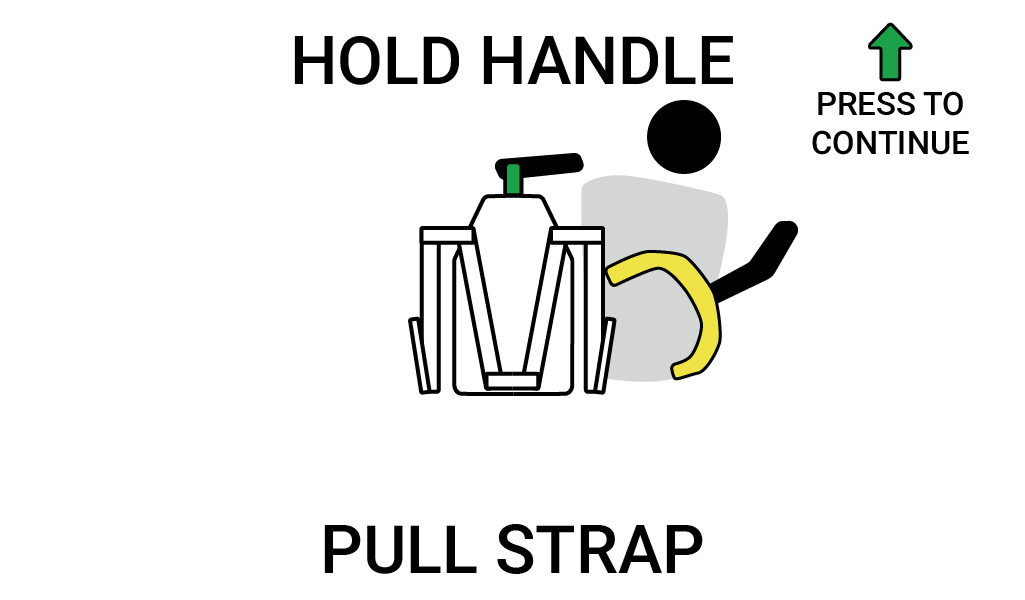
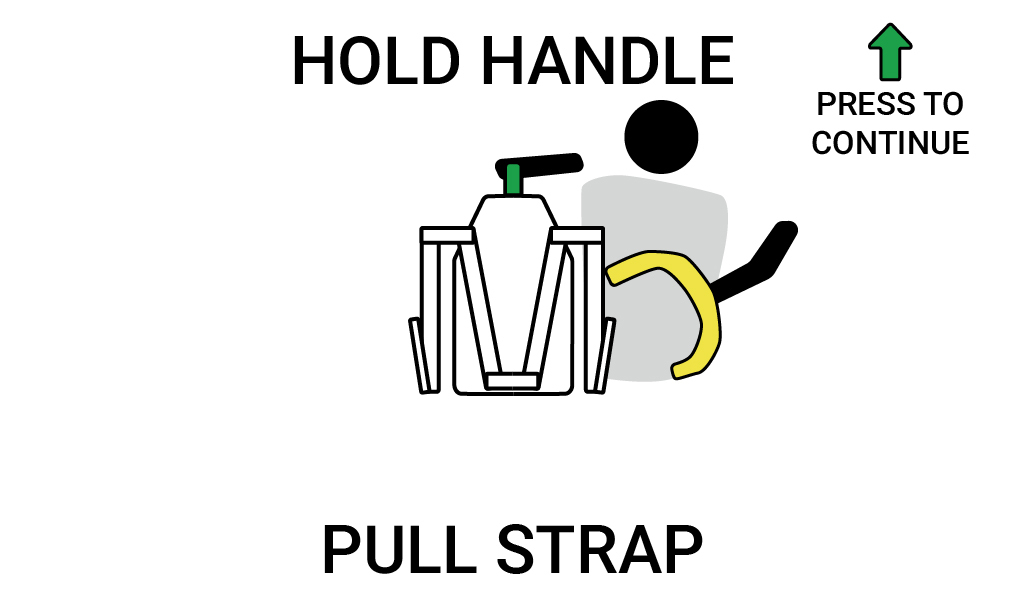
images pt 1000

Changed region(s): [[0.5932, 0.15, 0.718, 0.3]]

diff --git a/Raspberry Pi code/demo/HMI.py b/Raspberry Pi code/demo/HMI.py
@@ -85,6 +85,12 @@ _audio_length: float = 0.0    # length in seconds of the currently playing promp
 # Button lockout state
 _last_press_time: float = float("-inf")   # time.monotonic() of the last accepted button press
 
+# CPR timer overlay state
+_background: pygame.Surface | None = None   # scaled copy of the current image, used to erase old timer text
+_timer_font: pygame.font.Font
+_timer_rect: pygame.Rect | None = None      # screen area covered by the last drawn timer
+TIMER_COLOR = (0, 0, 0)                     # black, to match the text in the images
+
 def init_Pi() -> ErrorCode:
     """Initialize pigpio daemon and return the pi instance.
 
@@ -136,7 +142,7 @@ def init_HMI(pi_instance: pigpio.pi) -> ErrorCode:
     Returns:
         ErrorCode: Normal operation if successful, ERROR_INIT_FAILURE if failed
     """
-    global _screen, _pi, _audio_channel
+    global _screen, _pi, _audio_channel, _timer_font
     logging.debug("Initializing HMI...")
     
     # Initialize the global variable for the pigpio instance
@@ -161,6 +167,8 @@ def init_HMI(pi_instance: pigpio.pi) -> ErrorCode:
             pygame.FULLSCREEN
         )
         pygame.display.set_caption("CPR Machine")
+        # Timer text scales with the screen, roughly the size of the image text
+        _timer_font = pygame.font.Font(None, info.current_h // 8)
     except Exception as e:
         logging.error(f"Display initialization failed: {e}")
         return ErrorCode.ERROR_INIT_FAILURE
@@ -222,15 +230,57 @@ def set_image(image: Image) -> ErrorCode:
     Returns:
         ErrorCode: NORMAL_OPERATION if successful, ERROR_UNKNOWN_IMAGE if failed
     """
-    global _screen
+    global _screen, _background, _timer_rect
     try:
         surf = pygame.image.load(image.value)
         surf = pygame.transform.scale(surf, _screen.get_size())
         _screen.blit(surf, (0, 0))
         pygame.display.flip()
+        # Keep the image so draw_timer can erase its old text; the new image already covers it
+        _background = surf
+        _timer_rect = None
     except Exception as e:
         logging.error(f"Failed to set image {image.name}: {e}")
         return ErrorCode.ERROR_UNKNOWN_IMAGE
+    return ErrorCode.NORMAL_OPERATION
+
+
+def draw_timer(elapsed_sec: float) -> ErrorCode:
+    """Draw elapsed CPR time in the bottom right corner over the current image.
+    Only that corner of the screen is updated, so this is cheap enough to call every tick,
+    but callers should only redraw when the displayed second changes.
+
+    Args:
+        elapsed_sec (float): Total CPR time to display, in seconds
+
+    Returns:
+        ErrorCode: NORMAL_OPERATION if successful, ERROR_PYGAME_FAILURE if failed
+    """
+    global _screen, _background, _timer_rect, _timer_font
+
+    total = int(elapsed_sec)
+    hours, rem = divmod(total, 3600)
+    minutes, seconds = divmod(rem, 60)
+    text = f"{hours}:{minutes:02}:{seconds:02}" if hours else f"{minutes:02}:{seconds:02}"
+
+    try:
+        text_surf = _timer_font.render(text, True, TIMER_COLOR)
+        # Inset from the corner by a fraction of the screen height
+        margin = _screen.get_height() // 30
+        new_rect = text_surf.get_rect(bottomright=(_screen.get_width() - margin, _screen.get_height() - margin))
+
+        # Erase the previous text by restoring that patch of the image underneath it
+        dirty = new_rect
+        if _timer_rect is not None and _background is not None:
+            _screen.blit(_background, _timer_rect, _timer_rect)
+            dirty = new_rect.union(_timer_rect)
+
+        _screen.blit(text_surf, new_rect)
+        pygame.display.update(dirty)
+        _timer_rect = new_rect
+    except Exception as e:
+        logging.error(f"Failed to draw CPR timer: {e}")
+        return ErrorCode.ERROR_PYGAME_FAILURE
     return ErrorCode.NORMAL_OPERATION
 
 

diff --git a/Raspberry Pi code/demo/main.py b/Raspberry Pi code/demo/main.py
@@ -99,6 +99,10 @@ def main():
     prev_state = None
     error = ErrorCode.NORMAL_OPERATION
 
+    # Total time spent in COMPRESSION across all runs. Pausing freezes it and
+    # resuming carries on from the same total, so it reads total CPR time.
+    cpr_elapsed_sec = 0.0
+
     while error not in FATAL_ERRORS:
         # Record the start time of each loop iteration to maintain a consistent tick rate
         loop_start = time.monotonic()
@@ -237,11 +241,25 @@ def main():
                     if error != ErrorCode.NORMAL_OPERATION: continue
                     error = HMI.set_image_audio(HMI.Image.COMPRESSION, HMI.AudioPrompt.COMPRESSION)
                     if error != ErrorCode.NORMAL_OPERATION: continue
+                    # Start of this run of compressions; the timer is drawn on the first loop tick
+                    compression_start = time.monotonic()
+                    shown_sec = None
 
                 # Loop
+                # Only redraw when the displayed second changes, not every tick
+                run_sec = time.monotonic() - compression_start
+                total_sec = int(cpr_elapsed_sec + run_sec)
+                if total_sec != shown_sec:
+                    error = HMI.draw_timer(total_sec)
+                    if error != ErrorCode.NORMAL_OPERATION: continue
+                    shown_sec = total_sec
+
                 error, pause_pressed = HMI.pause_button_pressed()
                 if error != ErrorCode.NORMAL_OPERATION: continue
                 if pause_pressed:
+                    # Bank this run into the total so the timer resumes from here
+                    cpr_elapsed_sec += time.monotonic() - compression_start
+                    logging.info(f"CPR paused at {cpr_elapsed_sec:.1f} s total")
                     state = CPRState.PAUSE
 
             case(CPRState.PAUSE):
